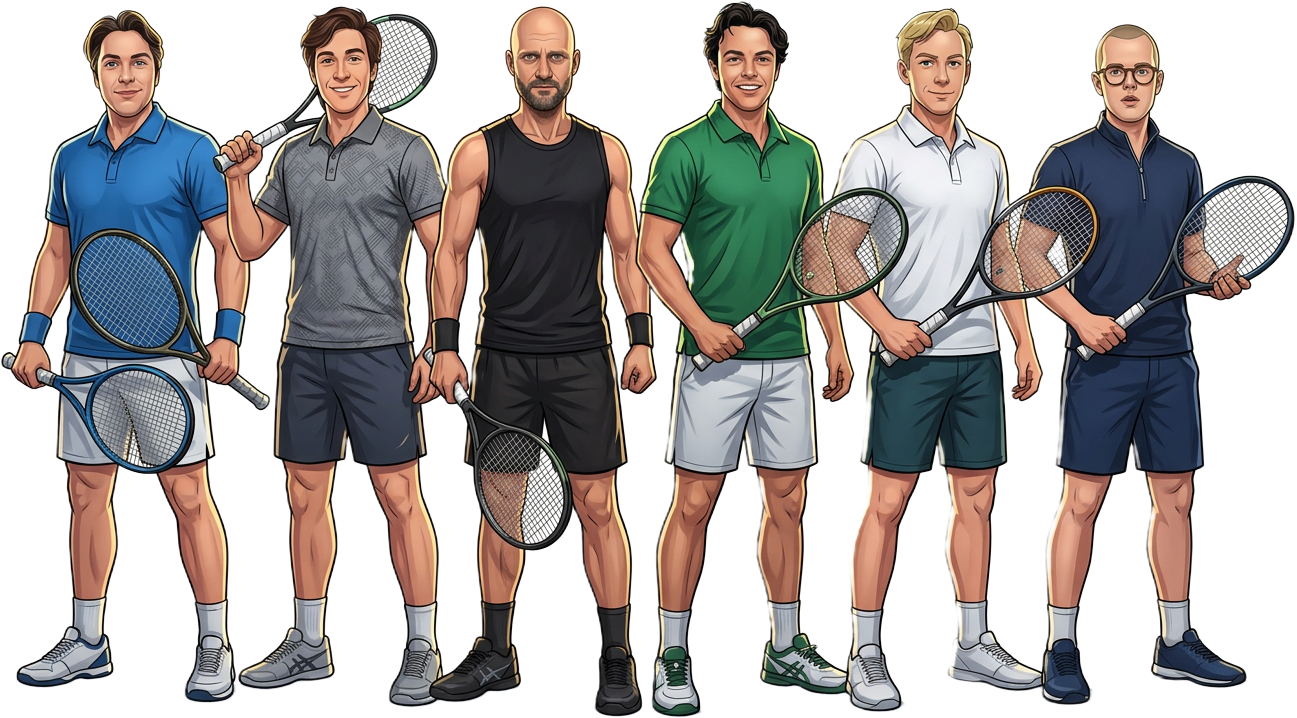
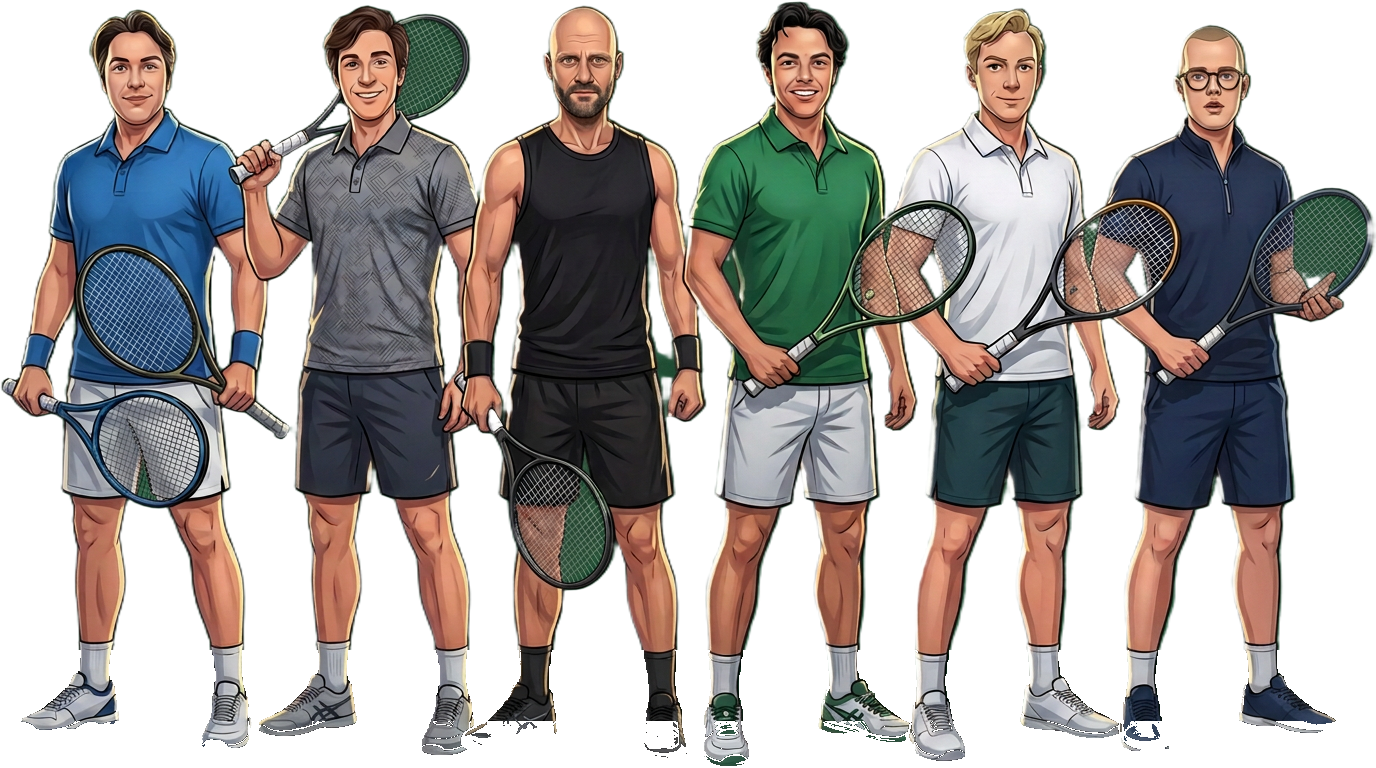
Work in progress

diff --git a/src/components/dashboard/HeroSection.tsx b/src/components/dashboard/HeroSection.tsx
@@ -129,7 +129,7 @@ export function HeroSection({ onScrollDown }: HeroSectionProps) {
         <img
           src={playersLineup}
           alt="The six TKSTL players standing together with tennis rackets"
-          className="w-full max-w-4xl object-contain object-bottom drop-shadow-[0_0_40px_hsl(var(--primary)/0.35)]"
+          className="w-full max-w-4xl object-contain object-bottom drop-shadow-[0_18px_28px_hsl(var(--background)/0.85)]"
         />
         <div className="absolute bottom-0 left-0 right-0 h-20 bg-gradient-to-t from-background via-background/70 to-transparent" />
       </motion.div>
